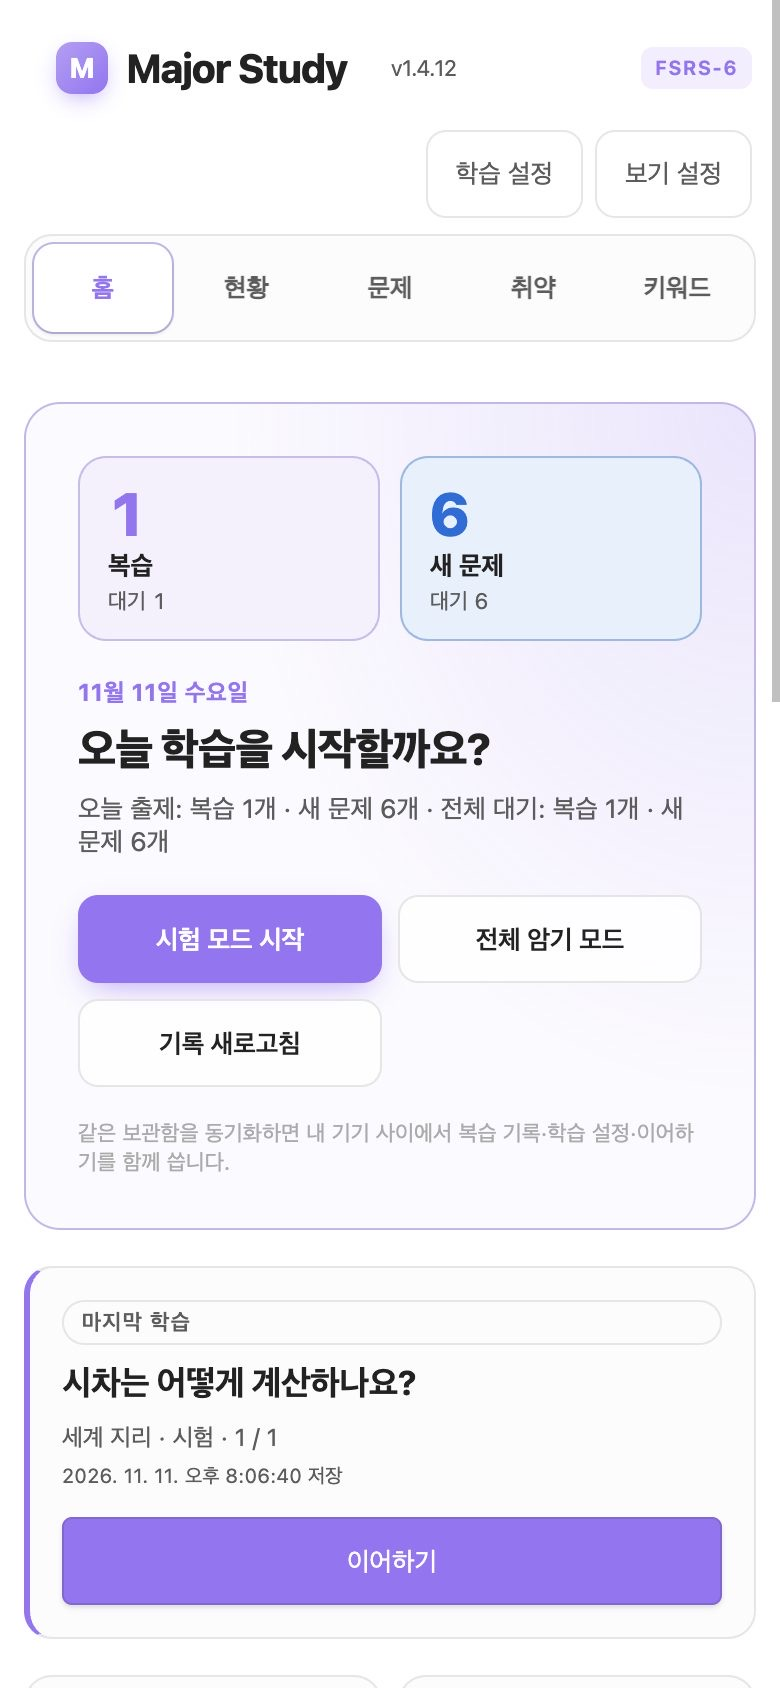
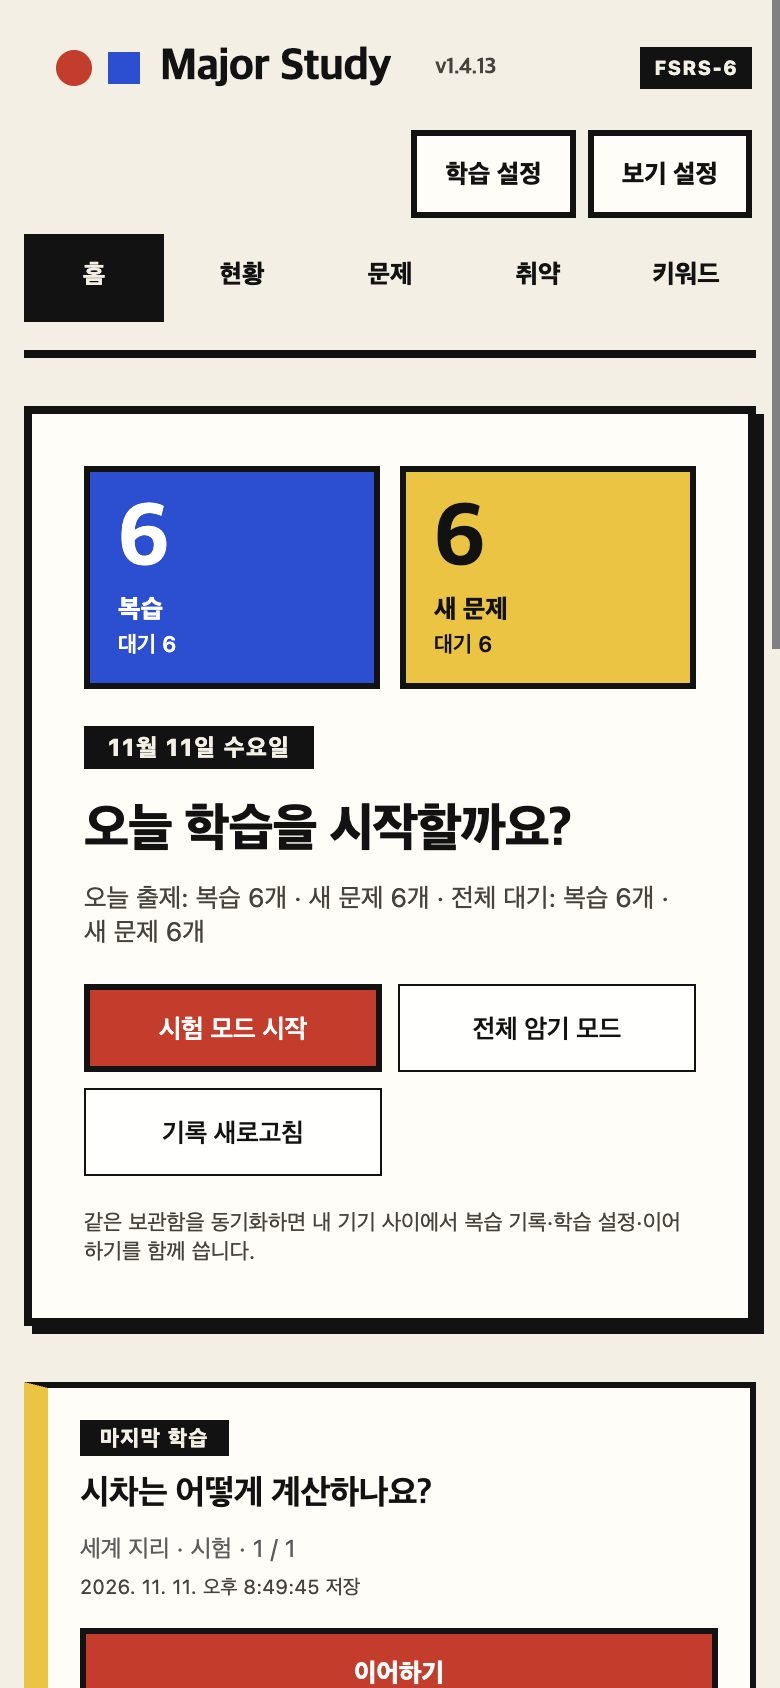
docs: show the 1.4.13 Bauhaus design on the homepage and README
Re-captured all 11 screenshots from the 1.4.13 build with the synthetic demo vault, and updated alt texts and captions to describe the Bauhaus UI.

diff --git a/docs/index.html b/docs/index.html
@@ -281,7 +281,7 @@ footer .fm .t{background:var(--yellow);clip-path:polygon(50% 0,100% 100%,0 100%)
       <div>
         <span class="ver">정식 1.4.13</span>
         <h1>질문을 모으고,<br><em>잊기 전에</em><br>다시 꺼낸다.</h1>
-        <p class="lead">Obsidian 안에서 과목·질문·키워드를 폼으로 관리하고, FSRS-6로 복습 시점을 잡아 주는 공부 플러그인. Markdown을 직접 쓰지 않아도 되고, 문제마다 노트를 만들지도 않습니다.</p>
+        <p class="lead">Obsidian 안에서 과목·질문·키워드를 폼으로 관리하고, FSRS-6로 복습 시점을 잡아 주는 공부 플러그인. Markdown을 직접 쓰지 않아도 되고, 문제마다 노트를 만들지도 않습니다. 1.4.13부터 플러그인 화면도 이 페이지와 같은 바우하우스 스타일(빨강·노랑·파랑, 두꺼운 테두리, 각진 모서리)입니다.</p>
         <div class="cta">
           <a class="btn btn-red" href="https://github.com/kimchi-kang/mia-study-obsidian/releases/download/1.4.13/mia-study-1.4.13.zip" download>↓ 1.4.13 다운로드</a>
           <a class="btn btn-line" href="#install">BRAT 설치</a>
@@ -298,7 +298,7 @@ footer .fm .t{background:var(--yellow);clip-path:polygon(50% 0,100% 100%,0 100%)
       </div>
     </div>
     <figure class="frame hero-shot">
-      <img src="assets/screens/desktop-dashboard.jpg" width="1600" height="1075" alt="MIA Study 대시보드. 오늘 출제할 복습 1개와 새 문제 6개, 이어하기 카드, 등록 문제 13개·기억 안정 비율·오늘 평가 통계 타일, 과목별 학습 카드가 보인다.">
+      <img src="assets/screens/desktop-dashboard.jpg" width="1600" height="1075" alt="바우하우스 스타일의 MIA Study 대시보드. 파란 복습 6개·노란 새 문제 6개 타일과 빨간 시험 모드 시작 버튼, 이어하기 카드, 등록 문제 13개·기억 안정 비율·오늘 평가 통계 타일, 과목별 학습 카드가 보인다.">
     </figure>
   </div>
 </div>
@@ -338,7 +338,7 @@ footer .fm .t{background:var(--yellow);clip-path:polygon(50% 0,100% 100%,0 100%)
         </ul>
         <p class="keys">Space 정답 · 1–4 평가 · ← → 이동 · U 직전 평가 취소</p>
       </div>
-      <figure class="frame"><img src="assets/screens/desktop-study.jpg" width="1600" height="1075" loading="lazy" alt="시험 모드 학습 화면. 시차 계산 질문 아래 분수 수식이 렌더링된 모범 답안과 못 암기·애매·암기·너무 쉬움 평가 버튼이 보인다."></figure>
+      <figure class="frame"><img src="assets/screens/desktop-study.jpg" width="1600" height="1075" loading="lazy" alt="시험 모드 학습 화면. 시차 계산 질문 아래 분수 수식이 렌더링된 모범 답안과 빨강·노랑·흰색·파랑의 못 암기·애매·암기·너무 쉬움 평가 버튼이 보인다."></figure>
     </div>
 
     <div class="feat flip">
@@ -395,7 +395,7 @@ footer .fm .t{background:var(--yellow);clip-path:polygon(50% 0,100% 100%,0 100%)
           <li>시험이 끝나면 평가별 개수·건너뜀·소요 시간 요약</li>
         </ul>
       </div>
-      <figure class="frame"><img src="assets/screens/desktop-progress.jpg" width="1600" height="1075" loading="lazy" alt="학습현황 화면. 전체 문제 13, 학습 전 6, 오늘 복습 1, 기억 안정 1, 오늘 평가 7 타일과 못 암기·애매·암기·너무 쉬움 최근 평가 막대, 세계 지리·수학 기초 과목별 진도가 보인다."></figure>
+      <figure class="frame"><img src="assets/screens/desktop-progress.jpg" width="1600" height="1075" loading="lazy" alt="학습현황 화면. 전체 문제 13, 학습 전 6, 오늘 복습 6, 기억 안정 1, 오늘 평가 7 타일과 못 암기·애매·암기·너무 쉬움 최근 평가 막대, 세계 지리·수학 기초 과목별 진도가 보인다."></figure>
     </div>
 
     <h3 class="subh">그 밖의 기능</h3>
@@ -419,13 +419,13 @@ footer .fm .t{background:var(--yellow);clip-path:polygon(50% 0,100% 100%,0 100%)
       <div class="sh"><span class="shape sq-y" aria-hidden="true"></span><h2>모바일</h2><span class="num">03</span></div>
       <div class="mob">
         <div>
-          <p>좁은 화면에서는 탭이 한 줄로 줄고 평가 버튼이 2×2로 커집니다. Obsidian의 밝은·어두운 테마를 그대로 따릅니다.</p>
+          <p>좁은 화면에서는 탭이 한 줄로 줄고 평가 버튼이 2×2로 커집니다. Obsidian의 밝은·어두운 테마를 그대로 따르며, 두 테마 모두 같은 바우하우스 스타일입니다.</p>
           <p>키보드가 열리면 편집창과 검색·설정 화면이 키보드 위 높이에 맞춰지고, 선택한 입력칸이 보이도록 스크롤됩니다. 버튼은 44px 이상의 터치 영역을 씁니다. 화면 왼쪽 가장자리에서 쓸면 학습을 시작한 화면으로 돌아갑니다.</p>
           <p class="honest">데스크톱 Obsidian에서 휴대폰 폭(390px)으로 찍은 화면입니다. 실제 휴대폰 캡처가 아닙니다.</p>
         </div>
         <div class="phones">
-          <figure class="phone"><img src="assets/screens/mobile-dashboard.jpg" width="780" height="1688" loading="lazy" alt="390픽셀 폭 어두운 테마의 대시보드. 복습 1개·새 문제 6개 대기 타일, 시험 모드 시작 버튼, 이어하기 카드가 보인다."></figure>
-          <figure class="phone"><img src="assets/screens/mobile-study.jpg" width="780" height="1688" loading="lazy" alt="390픽셀 폭 학습 화면. 수식이 렌더링된 모범 답안 아래에 평가 버튼 네 개가 2×2로 배치되어 있다."></figure>
+          <figure class="phone"><img src="assets/screens/mobile-dashboard.jpg" width="780" height="1688" loading="lazy" alt="390픽셀 폭 어두운 테마의 대시보드. 파란 복습 6개·노란 새 문제 6개 타일, 시험 모드 시작 버튼, 이어하기 카드가 보인다."></figure>
+          <figure class="phone"><img src="assets/screens/mobile-study.jpg" width="780" height="1688" loading="lazy" alt="390픽셀 폭 학습 화면. 수식이 렌더링된 모범 답안 아래에 빨강·노랑·흰색·파랑 평가 버튼 네 개가 2×2로 배치되어 있다."></figure>
         </div>
       </div>
     </div>

diff --git a/README.md b/README.md
@@ -12,17 +12,19 @@
 
 [**소개 페이지**](https://kimchi-kang.github.io/mia-study-obsidian/) · [**1.4.13 다운로드**](https://github.com/kimchi-kang/mia-study-obsidian/releases/download/1.4.13/mia-study-1.4.13.zip) · [변경 내역](docs/releases/1.4.13.md) · [현재 상태](STATUS.md)
 
-<img src="docs/assets/screens/desktop-dashboard.jpg" alt="MIA Study 대시보드. 오늘의 복습·새 문제와 과목별 학습 카드" width="860">
+<img src="docs/assets/screens/desktop-dashboard.jpg" alt="MIA Study 대시보드. 1.4.13 바우하우스 디자인의 오늘 복습·새 문제 타일과 과목별 학습 카드" width="860">
 
 </div>
+
+1.4.13부터 플러그인 화면이 소개 페이지와 같은 바우하우스 스타일(원색, 두꺼운 테두리, 각진 모서리, 4색 평가 버튼)로 바뀌었습니다. 동작과 저장 형식은 그대로입니다.
 
 Obsidian 안에서 과목·질문·키워드를 폼으로 관리하면서 FSRS-6 복습, 핵심·보조 키워드, 키워드 의미 노트, 연관 문제 추천을 제공한다. Markdown을 직접 작성할 필요가 없고 문제 하나마다 노트를 만들지도 않는다.
 
 | 학습 화면 | 문제 목록 | 모바일 |
 |---|---|---|
-| <img src="docs/assets/screens/desktop-study.jpg" alt="시험 모드 학습 화면, 렌더링된 수식이 있는 모범 답안" width="320"> | <img src="docs/assets/screens/desktop-questions.jpg" alt="문제 목록, 수학 기초·요리 과학 예시 질문" width="320"> | <img src="docs/assets/screens/mobile-study.jpg" alt="모바일 학습 화면" width="140"> |
+| <img src="docs/assets/screens/desktop-study.jpg" alt="시험 모드 학습 화면, 렌더링된 수식이 있는 모범 답안" width="320"> | <img src="docs/assets/screens/desktop-questions.jpg" alt="문제 목록, 수학 기초·요리 과학 예시 질문" width="320"> | <img src="docs/assets/screens/mobile-study.jpg" alt="모바일 학습 화면, 평가 버튼 4색" width="140"> |
 
-화면은 1.4.12 디자인과 직접 만든 일반 상식 데모 보관함(수학 기초·세계 지리·요리 과학)으로 찍었습니다. 수식·이미지·표·코드 렌더링을 보여 주는 예시 질문이며 실제 학습 내용이 아닙니다. 모바일 화면은 데스크톱 Obsidian에서 휴대폰 폭을 흉내 낸 것입니다.
+화면은 1.4.13 바우하우스 디자인(빨강·노랑·파랑, 두꺼운 테두리, 각진 모서리)과 직접 만든 일반 상식 데모 보관함(수학 기초·세계 지리·요리 과학)으로 찍었습니다. 수식·이미지·표·코드 렌더링을 보여 주는 예시 질문이며 실제 학습 내용이 아닙니다. 모바일 화면은 데스크톱 Obsidian에서 휴대폰 폭을 흉내 낸 것입니다.
 
 [1.4.13 정식 릴리스](https://github.com/kimchi-kang/mia-study-obsidian/releases/tag/1.4.13) · [다운로드·설치 안내](https://kimchi-kang.github.io/mia-study-obsidian/) · [현재 상태](STATUS.md) · [1.4.13 변경 내역](docs/releases/1.4.13.md) · [이전 버전 이력](docs/releases/HISTORY.md)
 
